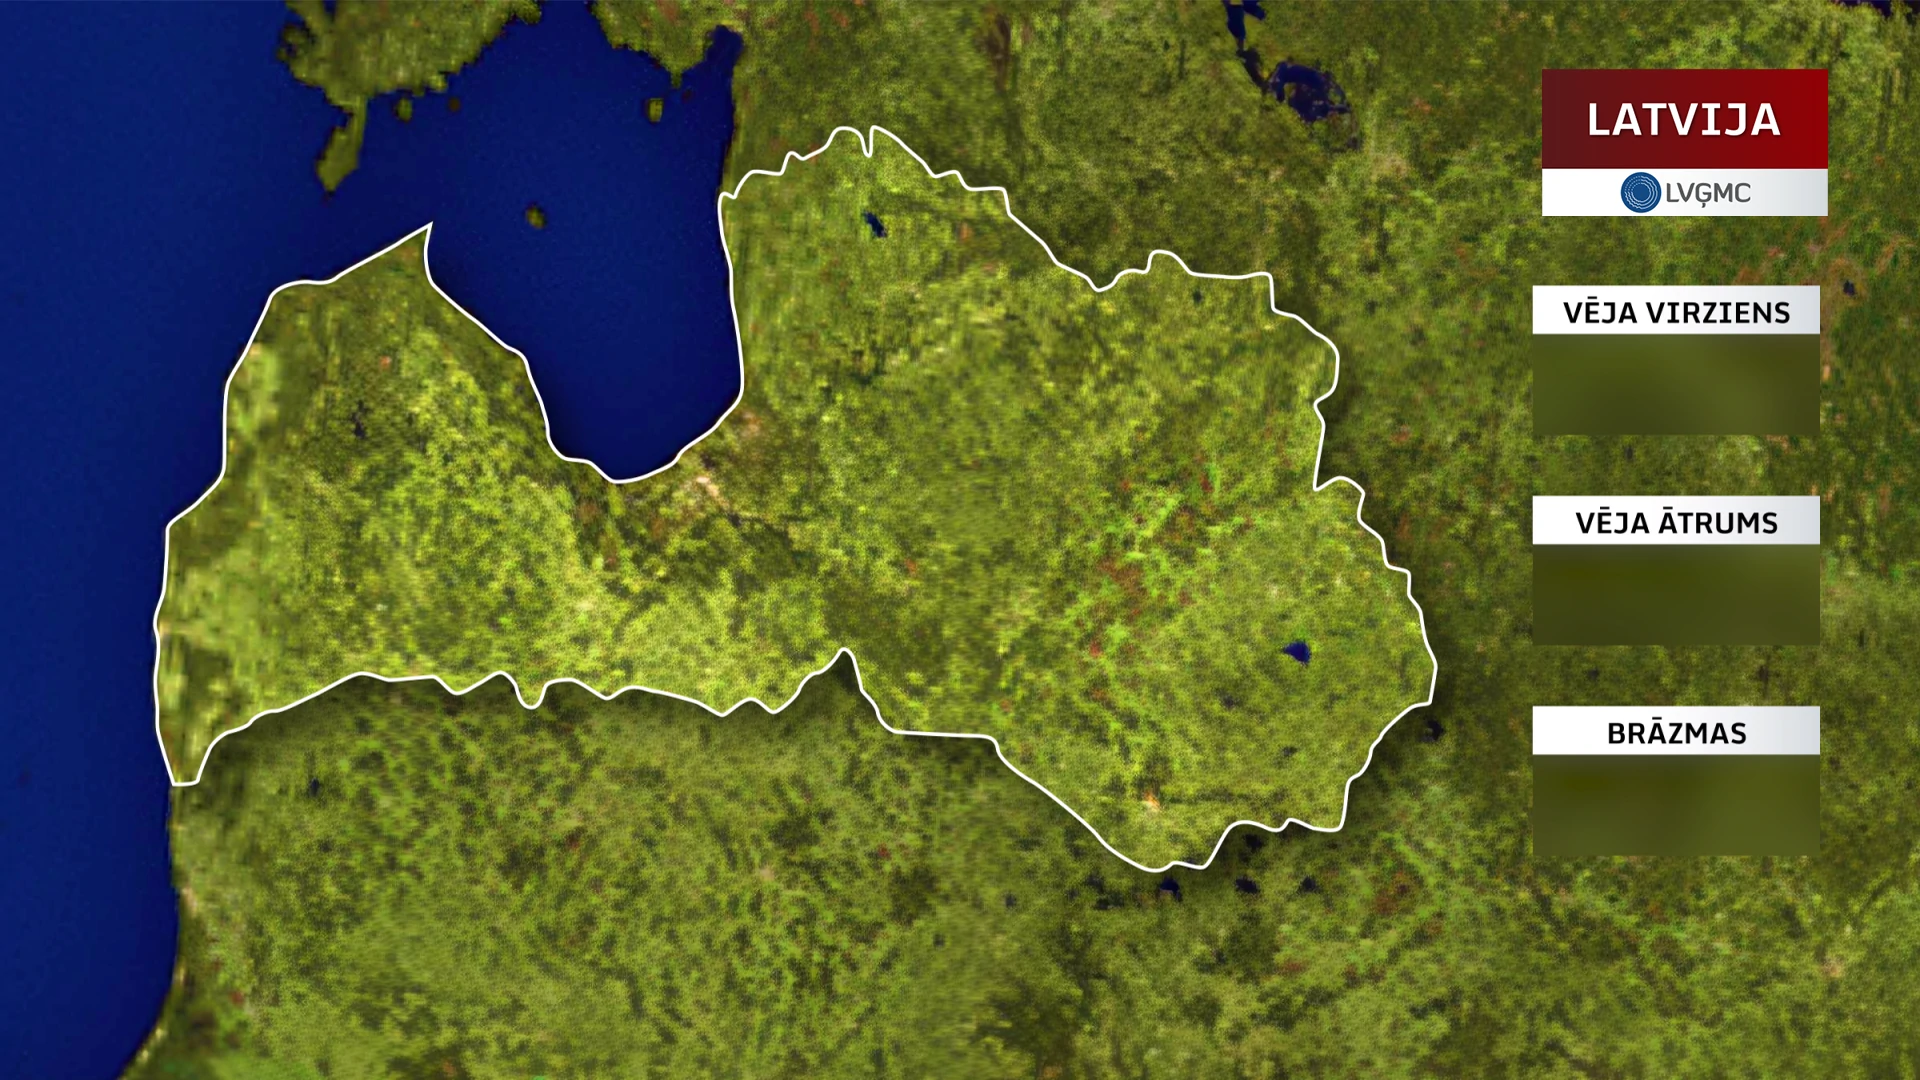
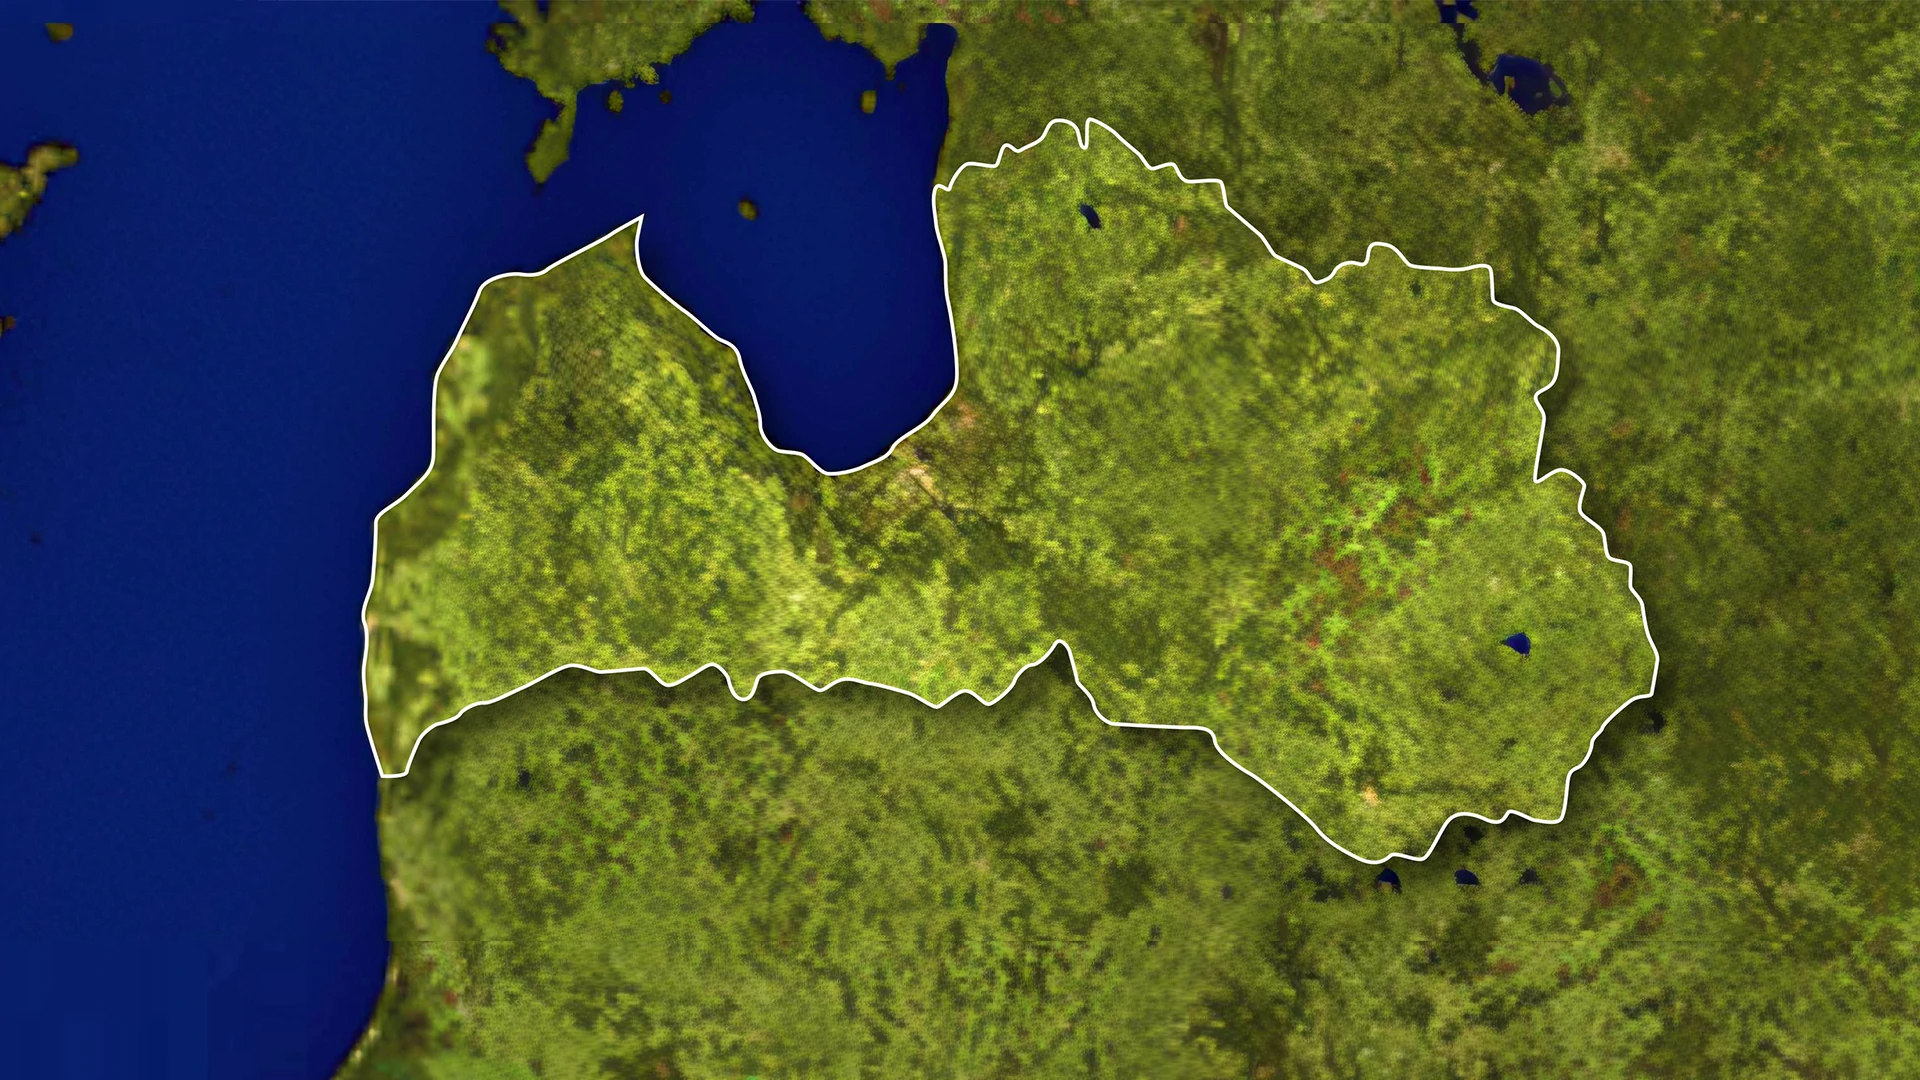
Add extra images for maps

diff --git a/web/src/cities/result/ResultView.tsx b/web/src/cities/result/ResultView.tsx
@@ -11,7 +11,7 @@ export const ResultView: Component<{
     result: Resource<QueryResult>
 }> = ({ result: resultResource }) => {
     const [getOrderKey, setOrderKey] = createSignal<ResultOrderKeys>("A -> Z");
-    type ResultView = "grid" | "list" | "map_1920x1080" | "map_3840x1440";
+    type ResultView = "grid" | "list" | "map_1920x1080" | "map_1920x1080_wind" | "map_3840x1440" | "map_3840x1440_wind";
     const [getResultView, setResultView] = createSignal<ResultView>("grid");
 
     const cityData = () =>
@@ -48,8 +48,22 @@ export const ResultView: Component<{
                     <input
                         type="button"
                         class="secondary"
+                        value="map 1920x1080 wind"
+                        onClick={() => setResultView("map_1920x1080_wind")}
+                    />
+                    &nbsp; | &nbsp;
+                    <input
+                        type="button"
+                        class="secondary"
                         value="map 3840x1440"
                         onClick={() => setResultView("map_3840x1440")}
+                    />
+                    &nbsp; | &nbsp;
+                    <input
+                        type="button"
+                        class="secondary"
+                        value="map 3840x1440 wind"
+                        onClick={() => setResultView("map_3840x1440_wind")}
                     />
                 </span>
                 <span style={{ visibility: ["grid", "list"].includes(getResultView()) ? "visible" : "hidden" }}>
@@ -80,8 +94,14 @@ export const ResultView: Component<{
                 <Show when={getResultView() === "map_1920x1080"}>
                     <MapView type="map_1920x1080" data={cityData} />
                 </Show>
+                <Show when={getResultView() === "map_1920x1080_wind"}>
+                    <MapView type="map_1920x1080_wind" data={cityData} />
+                </Show>
                 <Show when={getResultView() === "map_3840x1440"}>
                     <MapView type="map_3840x1440" data={cityData} />
+                </Show>
+                <Show when={getResultView() === "map_3840x1440_wind"}>
+                    <MapView type="map_3840x1440_wind" data={cityData} />
                 </Show>
             </div>
         </div>

diff --git a/web/src/cities/map/MapView.tsx b/web/src/cities/map/MapView.tsx
@@ -5,11 +5,13 @@ import { drawRotatedImage, getAngleFromString } from "./windAngles";
 import { WindInputs, WindSignals } from "./WindInputs";
 
 import map_1920x1080 from "../../assets/map_1920x1080.webp";
+import map_1920x1080_wind from "../../assets/map_1920x1080_wind.webp";
 import map_3840x1440 from "../../assets/map_3840x1440.webp";
+import map_3840x1440_wind from "../../assets/map_3840x1440_wind.webp";
 import arrowUrl from "../../assets/arrow.webp";
 import { cityCoords } from "../../components/cityCoords";
 
-type MapResolution = "map_1920x1080" | "map_3840x1440";
+type MapResolution = "map_1920x1080" | "map_1920x1080_wind" | "map_3840x1440" | "map_3840x1440_wind";
 
 type ResolutionPropsValue = {
     offsetX: number;
@@ -22,8 +24,10 @@ type ResolutionPropsValue = {
 };
 
 const resolutionProps: Record<string, ResolutionPropsValue> = {
-    "map_1920x1080": { offsetX: 90, offsetY: 120, width: 1920, height: 1080, scale: 1.35, showWind: true, map: map_1920x1080 },
-    "map_3840x1440": { offsetX: 800, offsetY: 120, width: 3840, height: 1440, scale: 2.2, showWind: false, map: map_3840x1440 },
+    "map_1920x1080":        { offsetX: 90, offsetY: 120, width: 1920, height: 1080, scale: 1.35, showWind: false, map: map_1920x1080 },
+    "map_1920x1080_wind":   { offsetX: 90, offsetY: 120, width: 1920, height: 1080, scale: 1.35, showWind: true, map: map_1920x1080_wind },
+    "map_3840x1440":        { offsetX: 800, offsetY: 120, width: 3840, height: 1440, scale: 2.2, showWind: false, map: map_3840x1440 },
+    "map_3840x1440_wind":   { offsetX: 800, offsetY: 120, width: 3840, height: 1440, scale: 2.2, showWind: true, map: map_3840x1440_wind },
 }
 
 export const MapView: Component<{ type: MapResolution, data: () => ResultKeyVal[] }> = ({ type, data }) => {
@@ -88,7 +92,12 @@ export const MapView: Component<{ type: MapResolution, data: () => ResultKeyVal[
     return (
         <>
             <WindInputs signals={windSignals} />
-            <canvas ref={setCanvas} width={props.width+"px"} height={props.height+"px"} />
+            <canvas
+                ref={setCanvas}
+                width={props.width+"px"}
+                height={props.height+"px"}
+                style={{"max-width": "1000px"}}
+            />
         </>
     );
 }
